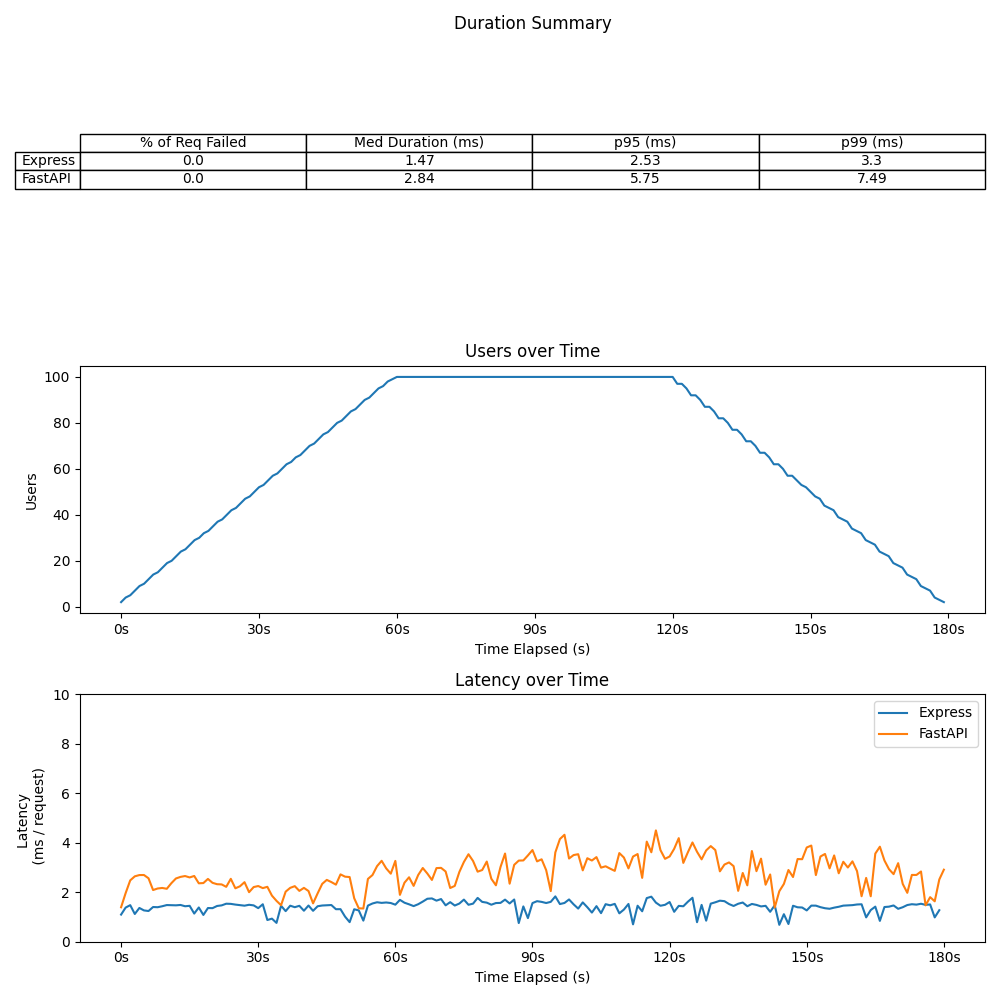
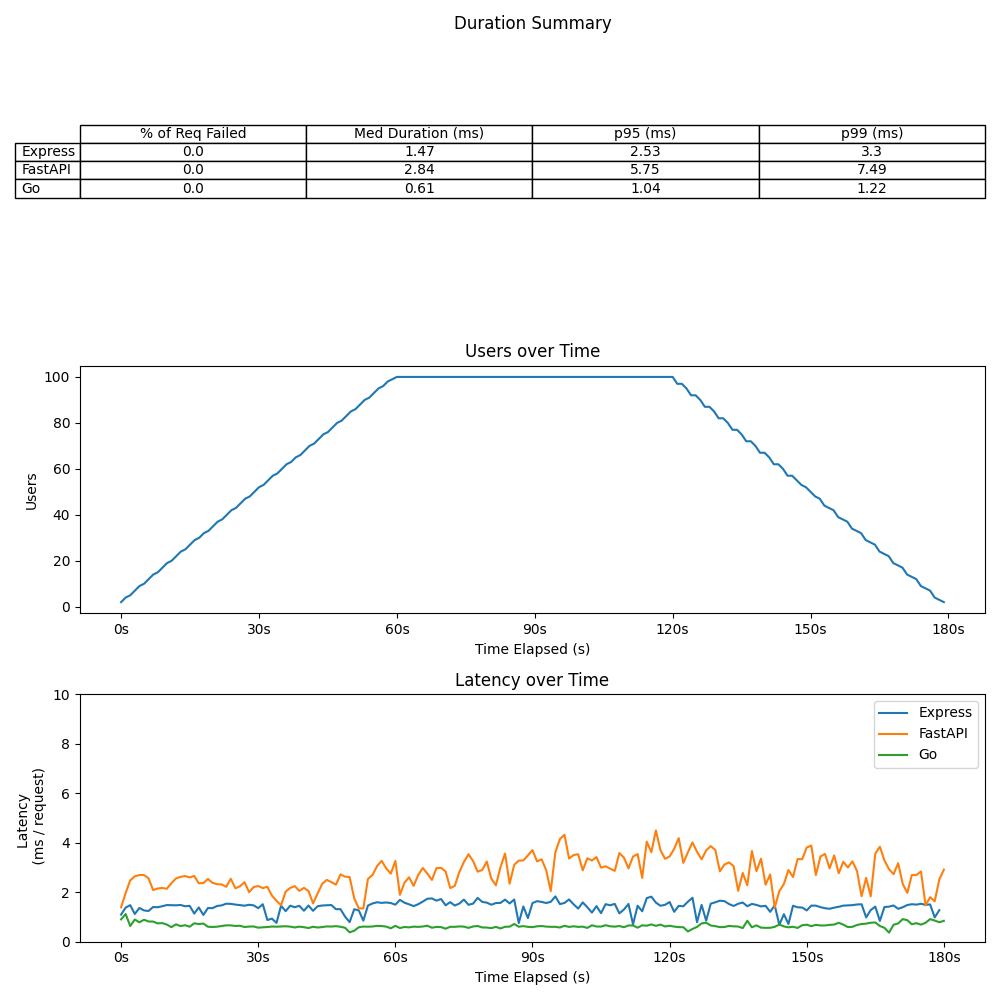
Updated timeseries charts

diff --git a/README.md b/README.md
@@ -1,10 +1,39 @@
 # api_load_test_project
 Load testing APIs written in different languages
 
+## Installing and running test locally
 
-## Express vs FastAPI latency comparison
+#### FastAPI server
+1. Activate a local environment and install the requirements from the 'requirements.txt' file with `python3 -m pip install -r requirements.txt`
+2. Call `uvicorn main:app` from the CLI. Note: Must be within the 'app' folder
+3. FastAPI server running on port 8000
 
-The following graphs illustrate the latency and failure rate between APIs built with FastAPI and Express. For each test, the API calls a single endpoint that returns a simple JSON response. Originally, each API was querying a SQLite DB. These tests proved unfair, since the addition of a database connection library added differing amounts of additional latency time for FastAPI and Express. Specifically, the 'sql-alchemy' python package added significantly more latency than the 'sequelize' node package. In order to best compare the two API frameworks in isolation, this additional variable was removed.
+#### Node.js (Express) server
+1. Install the required packages by running `npm install` from the CLI. Note you must be in the 'express_app' folder.
+2. Run `npm start` from the command line to start the nodemon server. 
+3. Express server running on port 3000
+
+#### Go server
+1. Install the required modules with `go install`. Must run from the 'web-service-gin' folder. 
+2. Start server with `go run .` from the root of the 'web-service-gin' folder. 
+3. Go server running on port 8080
+
+Each server has a GET '/' endpoint that returns a simple JSON. Some servers have different endpoints, but the load testing was all conducted against the GET '/' endpoint, for reasons explained in the 'Latency Comparison' section. 
+
+#### Running the load tests
+Loading testing is done using the [k6](https://k6.io/docs/) library. There are three commands available that can be run from within the 'express-app' directory:
+- `npm run load-test`
+- `npm run stress-test`
+- `npm run spike-test`
+
+Each accepts environment arguments that specify which port and which app you are running. For example, calling `PORT=3000 APP=express npm run load-test` will run the load-test against the express app and will output time_series data to the 'timeseries_etl/csv' file
+
+Charts and tables were generated with a Jupyter notebook. Assuming the virtual environment was set up and dependencies were installed, run `jupyter notebook` in the commnad line from the 'timeseries_etl' folder. The notebook 'timeseries_data_clean' contains the code for loading / transforming the data. Note when running the notebook - the notebook assumes that a csv file exists for each testing permutation (app + test type) - so 9 total. Running the load tests command will generate the necessary CSVs. 
+
+
+## Express vs FastAPI vs Go latency comparison
+
+The following graphs illustrate the latency and failure rate between APIs built with FastAPI and Express. For each test, the API calls a single endpoint that returns a simple JSON response. Originally, each API was querying a SQLite DB. These tests proved unfair, since the addition of a database connection library added differing amounts of additional latency time for FastAPI and Express. Specifically, the 'sql-alchemy' python package added significantly more latency than the 'sequelize' node package. In order to best compare the API frameworks in isolation, this additional variable was removed.
 
 ### Load Test
 The load test had the following stages:
@@ -24,7 +53,7 @@ The stress test has the following stages:
  - 30s scale down to 50 users
  - 30s scale down to 0 users
 
- The stress test should simulate a scenario where an API or web app is under higher than usual load for a sustained period of time. Since 100 users is our imaginary benchmark for a 'typical' situation, I selected 300 as a "stress", and kept the system stressed for 1m 30s. Under these conditions, FastAPI began to fail request, starting at around 250 users. About 4% of its request failed, where none failed for Express
+ The stress test should simulate a scenario where an API or web app is under higher than usual load for a sustained period of time. Since 100 users is our imaginary benchmark for a 'typical' situation, I selected 300 as a "stress", and kept the system stressed for 1m 30s. Under these conditions, FastAPI began to fail request, starting at around 250 users. About 4% of its request failed, where none failed for Express or Go.
 
 ![latency_timeseries_comparison_stress_test](timeseries_etl/stress_test_comparison_timeseries.png)
 
@@ -36,6 +65,10 @@ The spike test has the following stages:
  - 1m constant at 50 users
  - 30s scale down to 0 users
 
- The spike test should simulate a scenario where the API or web app experiences a sharp - but not sustained - increase in traffic / activity. Under these conditions, 43% of request made to the FastAPI endpoint failed, while no requests made to express failed.
+ The spike test should simulate a scenario where the API or web app experiences a sharp - but not sustained - increase in traffic / activity. Under these conditions, 43% of request made to the FastAPI endpoint failed, while no requests made to Express or Go failed.
 
 ![latency_timeseries_comparison_spike_test](timeseries_etl/spike_test_comparison_timeseries.png)
+
+
+### Conclusion
+Based on the data, Go appears to be a superior language for writing an API if you want to optimze for speed. Go was 1-2 ms faster than Express in key metrics and, like Express, did not drop any requests. If a product owner can accept a 1-2 ms slower response time, Express may be a superior choice simply because more developers are familiar with JavaScript. 
